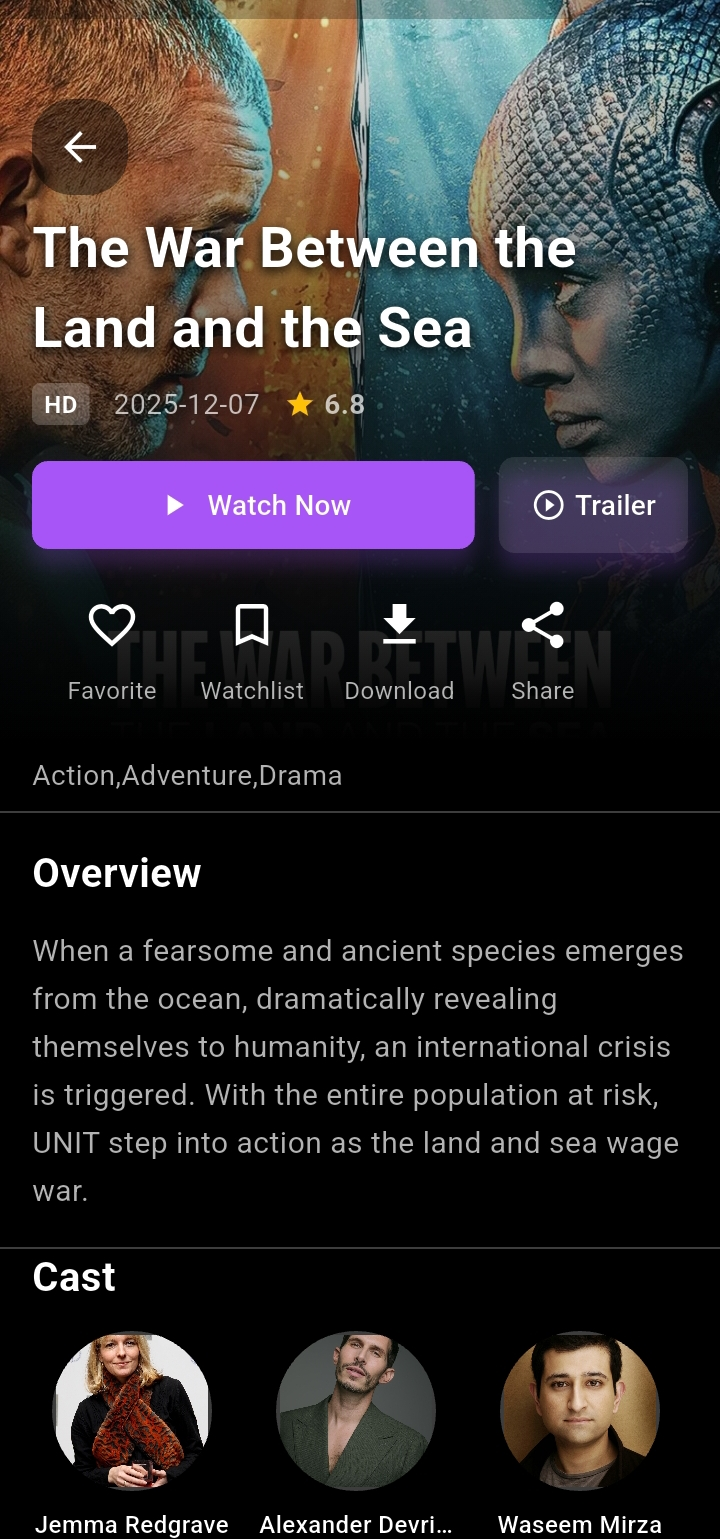
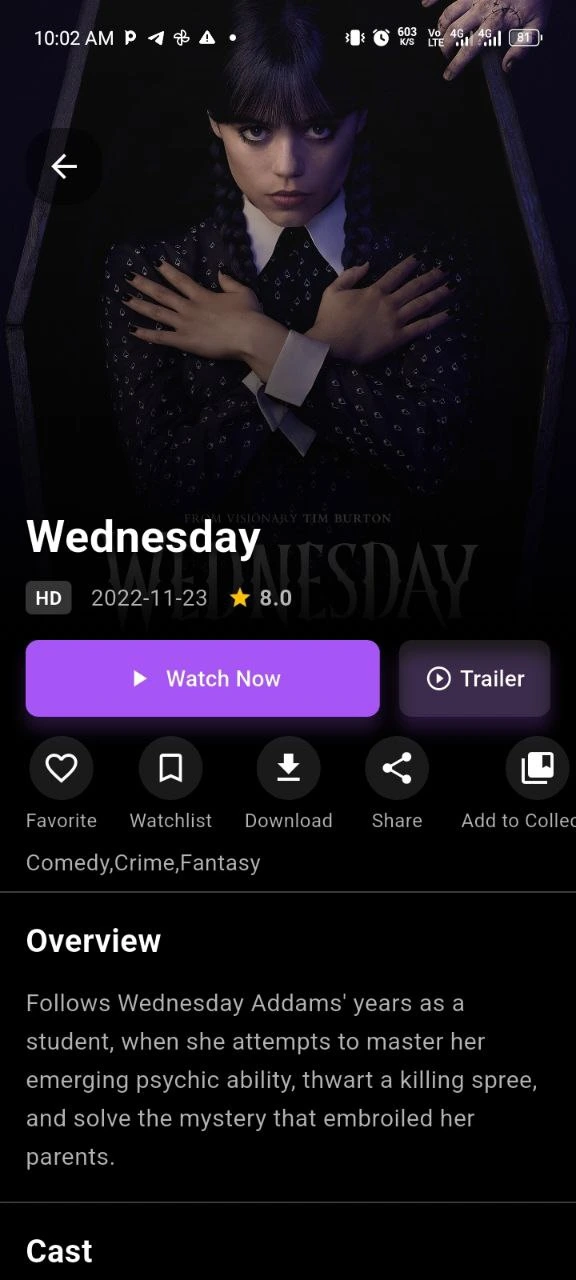
feat: update app screenshots across home and screenshots pages

diff --git a/app/components/ui/InteractivePhoneMockup.tsx b/app/components/ui/InteractivePhoneMockup.tsx
@@ -6,53 +6,53 @@ import { ChevronLeft, ChevronRight, Maximize2, Loader2, X, Play, Pause, SkipBack
 import Image from 'next/image'
 
 const screenshots = [
-  { 
-    id: 'home', 
-    label: 'Home Screen', 
+  {
+    id: 'home',
+    label: 'Home Screen',
     description: 'Beautiful movie grid with personalized recommendations',
     color: 'from-slate-900 via-slate-800 to-slate-900',
     accent: '#64748b',
     screenshot: '/screenshots/home.webp'
   },
-  { 
-    id: 'movies', 
-    label: 'Movies', 
+  {
+    id: 'movies',
+    label: 'Movies',
     description: 'Explore our extensive movie collection',
     color: 'from-slate-900 via-blue-950/20 to-slate-900',
-    accent: '#64748b',
+    accent: '#3b82f6',
     screenshot: '/screenshots/movies.webp'
   },
-  { 
-    id: 'shows', 
-    label: 'TV Shows', 
-    description: 'Browse popular TV series and episodes',
-    color: 'from-slate-900 via-amber-950/20 to-slate-900',
-    accent: '#64748b',
-    screenshot: '/screenshots/favorites.webp'
-  },
-  { 
-    id: 'search', 
-    label: 'Search', 
-    description: 'Find movies instantly with filters and suggestions',
-    color: 'from-slate-900 via-emerald-950/20 to-slate-900',
-    accent: '#64748b',
-    screenshot: '/screenshots/search.webp'
-  },
-  { 
-    id: 'details', 
-    label: 'Movie Details', 
+  {
+    id: 'details',
+    label: 'Movie Details',
     description: 'Everything about the movie in one beautiful view',
     color: 'from-slate-900 via-indigo-950/20 to-slate-900',
-    accent: '#64748b',
+    accent: '#6366f1',
     screenshot: '/screenshots/details.webp'
   },
-  { 
-    id: 'profile', 
-    label: 'Profile', 
-    description: 'Your watchlist, history and settings',
+  {
+    id: 'search',
+    label: 'Search',
+    description: 'Find movies instantly with filters and suggestions',
+    color: 'from-slate-900 via-emerald-950/20 to-slate-900',
+    accent: '#10b981',
+    screenshot: '/screenshots/search.webp'
+  },
+  {
+    id: 'library',
+    label: 'Library',
+    description: 'Your watchlist, history and favorites in one place',
     color: 'from-slate-900 via-violet-950/20 to-slate-900',
-    accent: '#64748b',
-    screenshot: '/screenshots/profile.webp'
+    accent: '#8b5cf6',
+    screenshot: '/screenshots/library.webp'
+  },
+  {
+    id: 'video',
+    label: 'Video Player',
+    description: 'Stream in stunning quality with advanced controls',
+    color: 'from-slate-900 via-red-950/20 to-slate-900',
+    accent: '#ef4444',
+    screenshot: '/screenshots/video.webp'
   },
 ]
 
@@ -69,22 +69,22 @@ export default function InteractivePhoneMockup() {
   const [currentTime, setCurrentTime] = useState(120)
   const [totalTime] = useState(360)
   const [currentDate, setCurrentDate] = useState<string>('')
-  
+
   useEffect(() => {
     // Set current date only on client side to avoid hydration mismatch
-    setCurrentDate(new Date().toLocaleTimeString([], { 
-      hour: '2-digit', 
-      minute: '2-digit' 
+    setCurrentDate(new Date().toLocaleTimeString([], {
+      hour: '2-digit',
+      minute: '2-digit'
     }))
-    
+
     // Update time every minute
     const interval = setInterval(() => {
-      setCurrentDate(new Date().toLocaleTimeString([], { 
-        hour: '2-digit', 
-        minute: '2-digit' 
+      setCurrentDate(new Date().toLocaleTimeString([], {
+        hour: '2-digit',
+        minute: '2-digit'
       }))
     }, 60000)
-    
+
     return () => clearInterval(interval)
   }, [])
 
@@ -112,7 +112,7 @@ export default function InteractivePhoneMockup() {
     if (touchStart - touchEnd > 50) {
       nextScreenshot()
     }
-    
+
     if (touchStart - touchEnd < -50) {
       prevScreenshot()
     }
@@ -140,7 +140,7 @@ export default function InteractivePhoneMockup() {
         nextScreenshot()
       }, 4000)
     }
-    
+
     return () => {
       if (autoplayRef.current) {
         clearInterval(autoplayRef.current)
@@ -170,7 +170,7 @@ export default function InteractivePhoneMockup() {
         setIsFullscreen(false)
       }
     }
-    
+
     window.addEventListener('keydown', handleEscape)
     return () => window.removeEventListener('keydown', handleEscape)
   }, [isFullscreen])
@@ -181,11 +181,11 @@ export default function InteractivePhoneMockup() {
       <div className="relative w-[320px] sm:w-[384px] md:w-[28rem] lg:w-[384px] mx-auto">
         {/* Phone Frame with Glow */}
         <div className="absolute inset-0 bg-gradient-to-b from-gray-800 via-gray-900 to-black rounded-[3rem] border-[12px] border-gray-900 shadow-2xl shadow-primary/20" />
-        
+
         {/* Phone Screen */}
         <div className="relative mt-[12px] ml-[12px] w-[calc(100%-24px)] h-[640px] sm:h-[680px] md:h-[700px] lg:h-[720px] bg-black rounded-[2.5rem] overflow-hidden">
           {/* Screenshot Display */}
-          <div 
+          <div
             className="relative w-full h-full overflow-hidden cursor-grab active:cursor-grabbing"
             onTouchStart={handleTouchStart}
             onTouchMove={handleTouchMove}
@@ -258,11 +258,11 @@ export default function InteractivePhoneMockup() {
                         sizes="(max-width: 768px) 100vw, (max-width: 1200px) 50vw, 33vw"
                         quality={85}
                       />
-                      
+
                       {/* Subtle gradient overlay for better text readability */}
                       <div className="absolute inset-0 bg-gradient-to-t from-black/30 via-transparent to-transparent pointer-events-none" />
                     </div>
-                    
+
                     {/* App Content Overlay for Details Screen */}
                     {currentIndex === 4 && (
                       <div className="absolute inset-0 p-6 flex flex-col justify-between">
@@ -346,14 +346,14 @@ export default function InteractivePhoneMockup() {
                       </div>
                     )}
                   </div>
-                  
+
                   {/* Label Overlay */}
                   <div className="absolute bottom-6 left-6 right-6">
                     <div className="glass-effect rounded-2xl p-5 backdrop-blur-xl border border-white/5 shadow-2xl">
                       <div className="flex items-center justify-between mb-3">
                         <h3 className="font-semibold text-xl tracking-tight">{screenshots[currentIndex].label}</h3>
                         <div className="flex items-center gap-3">
-                          <div 
+                          <div
                             className="w-3 h-3 rounded-full shadow-lg"
                             style={{ backgroundColor: screenshots[currentIndex].accent }}
                           />
@@ -379,14 +379,13 @@ export default function InteractivePhoneMockup() {
                       setIsLoading(true)
                       setCurrentIndex(index)
                     }}
-                    className={`w-3 h-3 rounded-full transition-all duration-500 hover:scale-125 ${
-                      index === currentIndex 
-                        ? 'scale-150 shadow-lg' 
+                    className={`w-3 h-3 rounded-full transition-all duration-500 hover:scale-125 ${index === currentIndex
+                        ? 'scale-150 shadow-lg'
                         : 'bg-white/40 hover:bg-white/60 hover:shadow-md'
-                    }`}
+                      }`}
                     style={{
-                      backgroundColor: index === currentIndex 
-                        ? screenshots[currentIndex].accent 
+                      backgroundColor: index === currentIndex
+                        ? screenshots[currentIndex].accent
                         : undefined
                     }}
                   />
@@ -406,9 +405,9 @@ export default function InteractivePhoneMockup() {
 
         {/* Phone Notch */}
         <div className="absolute top-0 left-1/2 -translate-x-1/2 w-40 h-6 bg-gray-900 rounded-b-2xl z-10" />
-        
+
         {/* Dynamic Phone Accent */}
-        <div 
+        <div
           className="absolute -inset-1 rounded-[3.5rem] blur-md opacity-20 -z-10"
           style={{ backgroundColor: screenshots[currentIndex].accent }}
         />
@@ -421,7 +420,7 @@ export default function InteractivePhoneMockup() {
         >
           <ChevronLeft className="w-7 h-7 group-hover:scale-110 transition-transform duration-300" />
         </button>
-        
+
         <button
           onClick={nextScreenshot}
           className="absolute -right-4 top-1/2 -translate-y-1/2 w-14 h-14 rounded-full glass-effect flex items-center justify-center hover:bg-white/15 transition-all duration-500 z-20 group active:scale-95 shadow-xl hover:shadow-2xl"
@@ -444,7 +443,7 @@ export default function InteractivePhoneMockup() {
           <div className="inline-flex flex-col items-center gap-2">
             <div className="text-sm text-text-muted">Currently Viewing</div>
             <div className="flex items-center gap-2">
-              <div 
+              <div
                 className="w-2 h-2 rounded-full animate-pulse"
                 style={{ backgroundColor: screenshots[currentIndex].accent }}
               />
@@ -461,14 +460,14 @@ export default function InteractivePhoneMockup() {
       <AnimatePresence>
         {isFullscreen && (
           <div className="fixed inset-0 bg-black/95 z-50 flex items-center justify-center p-4">
-            <button 
+            <button
               className="absolute top-6 right-6 w-12 h-12 rounded-full glass-effect flex items-center justify-center hover:bg-white/10 transition-colors text-xl z-50"
               onClick={() => setIsFullscreen(false)}
               aria-label="Close fullscreen"
             >
               <X className="w-6 h-6" />
             </button>
-            
+
             <div className="max-w-6xl w-full max-h-[90vh]">
               <div className="bg-surface rounded-3xl overflow-hidden border border-white/10">
                 <div className="p-8 h-[85vh] flex flex-col">
@@ -481,7 +480,7 @@ export default function InteractivePhoneMockup() {
                       {screenshots[currentIndex].description}
                     </p>
                   </div>
-                  
+
                   {/* Full-size Screenshot */}
                   <div className="relative flex-1 rounded-2xl overflow-hidden bg-gradient-to-br from-primary/10 to-secondary/10">
                     <Image
@@ -491,12 +490,12 @@ export default function InteractivePhoneMockup() {
                       className="object-contain p-8"
                       quality={100}
                     />
-                    
+
                     {/* Screenshot Info */}
                     <div className="absolute bottom-4 left-4 right-4">
                       <div className="glass-effect rounded-xl p-4 backdrop-blur-lg flex items-center justify-between">
                         <div className="flex items-center gap-3">
-                          <div 
+                          <div
                             className="w-4 h-4 rounded-full"
                             style={{ backgroundColor: screenshots[currentIndex].accent }}
                           />
@@ -508,7 +507,7 @@ export default function InteractivePhoneMockup() {
                       </div>
                     </div>
                   </div>
-                  
+
                   {/* Navigation Controls */}
                   <div className="flex justify-between items-center mt-8">
                     <button
@@ -518,7 +517,7 @@ export default function InteractivePhoneMockup() {
                       <ChevronLeft className="w-5 h-5 group-hover:-translate-x-1 transition-transform" />
                       Previous
                     </button>
-                    
+
                     <div className="flex gap-3">
                       {screenshots.map((screenshot, index) => (
                         <button
@@ -527,14 +526,13 @@ export default function InteractivePhoneMockup() {
                             setIsLoading(true)
                             setCurrentIndex(index)
                           }}
-                          className={`px-4 py-2 rounded-full transition-all ${
-                            index === currentIndex 
-                              ? 'text-white font-medium' 
+                          className={`px-4 py-2 rounded-full transition-all ${index === currentIndex
+                              ? 'text-white font-medium'
                               : 'text-text-muted hover:text-white'
-                          }`}
+                            }`}
                           style={{
-                            backgroundColor: index === currentIndex 
-                              ? screenshots[currentIndex].accent + '40' 
+                            backgroundColor: index === currentIndex
+                              ? screenshots[currentIndex].accent + '40'
                               : 'transparent'
                           }}
                         >
@@ -542,7 +540,7 @@ export default function InteractivePhoneMockup() {
                         </button>
                       ))}
                     </div>
-                    
+
                     <button
                       onClick={nextScreenshot}
                       className="flex items-center gap-3 px-6 py-3 rounded-full glass-effect hover:bg-white/10 transition-colors group"
@@ -562,14 +560,14 @@ export default function InteractivePhoneMockup() {
       <AnimatePresence>
         {showVideo && (
           <div className="fixed inset-0 bg-black/95 z-50 flex items-center justify-center p-4">
-            <button 
+            <button
               className="absolute top-6 right-6 w-12 h-12 rounded-full glass-effect flex items-center justify-center hover:bg-white/10 transition-colors text-xl z-50"
               onClick={() => setShowVideo(false)}
               aria-label="Close video"
             >
               <X className="w-6 h-6" />
             </button>
-            
+
             <div className="max-w-4xl w-full">
               <div className="bg-surface rounded-3xl overflow-hidden border border-white/10 p-8">
                 <h3 className="text-3xl font-bold mb-4 text-center">App Demo Preview</h3>

diff --git a/app/screenshots/page.tsx b/app/screenshots/page.tsx
@@ -13,12 +13,19 @@ export const metadata: Metadata = {
 
 export default function Screenshots() {
   const screenshots = [
-    { id: 'home', title: 'Home Screen', description: 'Browse trending movies and shows' },
-    { id: 'search', title: 'Search', description: 'Find any movie instantly' },
-    { id: 'details', title: 'Movie Details', description: 'View detailed information about movies' },
-    { id: 'player', title: 'Video Player', description: 'Stream in stunning 4K quality' },
-    { id: 'downloads', title: 'Downloads', description: 'Manage offline content' },
-    { id: 'profile', title: 'Profile', description: 'Personalized experience' },
+    { id: 'home', title: 'Home Screen', description: 'Experience our curated movie grid with personalized recommendations.' },
+    { id: 'movies', title: 'Movies Explorer', description: 'Explore a vast library of films across all genres and eras.' },
+    { id: 'details', title: 'Movie Details', description: 'Get rich metadata, trailers, and cast info for every title.' },
+    { id: 'details2', title: 'More Info', description: 'Deep dive into seasons, episodes, and related content.' },
+    { id: 'search', title: 'Smart Search', description: 'Instantly find exactly what you want with our powerful search.' },
+    { id: 'library', title: 'Personal Library', description: 'Organize your movie life with watchlists and history.' },
+    { id: 'library2', title: 'Collection View', description: 'A sleek way to browse your saved and downloaded movies.' },
+    { id: 'favorites', title: 'Favorites', description: 'One tap access to the movies you love the most.' },
+    { id: 'downloads', title: 'Downloads', description: 'Watch anywhere, anytime with full offline support.' },
+    { id: 'video', title: '4K Player', description: 'Stunning visual quality with advanced playback controls.' },
+    { id: 'collection', title: 'Genre Collections', description: 'Discover new titles through our themed movie collections.' },
+    { id: 'profile', title: 'User Profile', description: 'Manage your settings, account, and preferences easily.' },
+    { id: 'selector', title: 'Quick Selector', description: 'Swiftly switch between source qualities and subtitles.' },
   ]
 
   return (
@@ -28,7 +35,7 @@ export default function Screenshots() {
         <p className="text-xl text-center text-text-muted mb-12">
           Take a visual tour of our beautiful app interface
         </p>
-        
+
         <div className="grid grid-cols-1 md:grid-cols-2 lg:grid-cols-3 gap-8">
           {screenshots.map((screenshot) => (
             <div key={screenshot.id} className="relative group">
